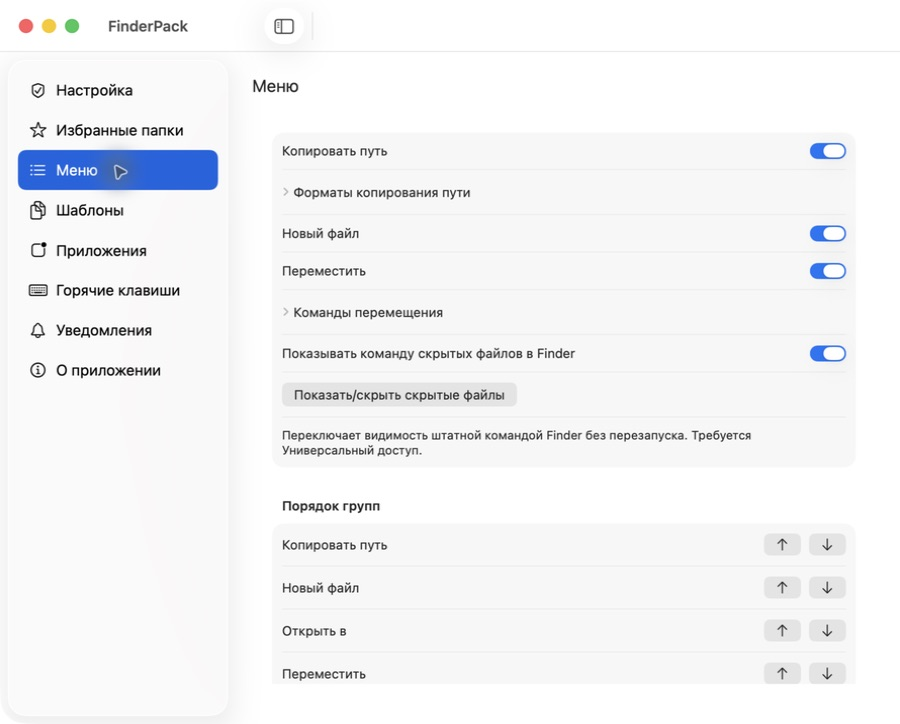
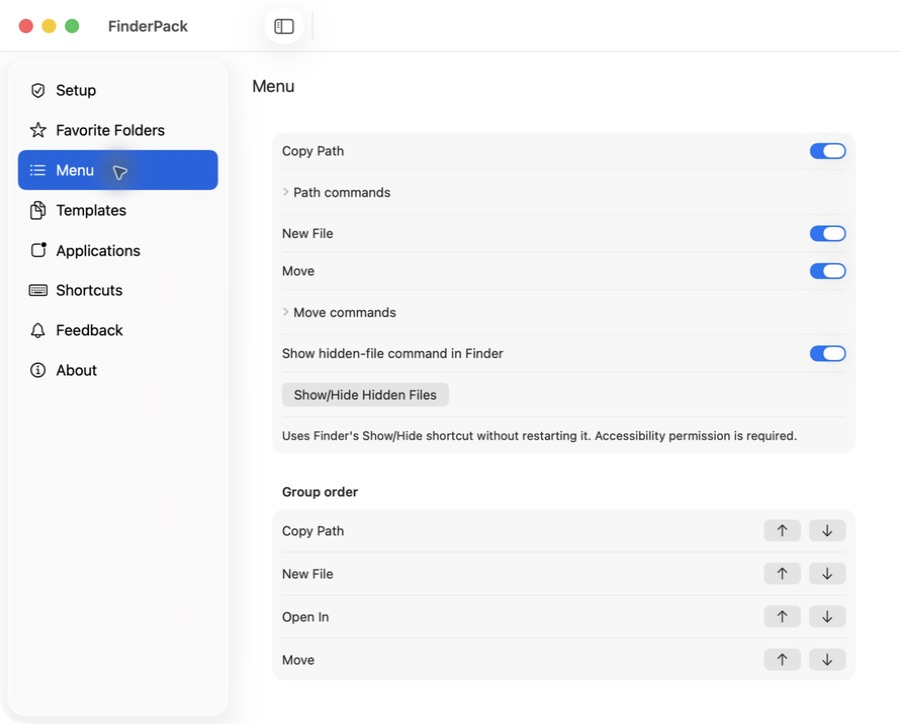
docs: use English interface screenshots

diff --git a/docs/images/README.md b/docs/images/README.md
@@ -1,7 +1,7 @@
 # README screenshots
 
 Captured from the installed FinderPack 0.1.1 development build 14 on 2026-09-19,
-using the Russian interface on macOS 26.6.2. These are actual application-window
+using the English interface on macOS 26.6.2. These are actual application-window
 captures, without compositing, retouching or generated UI.
 
 - `menu-settings.png`: command group visibility and ordering.
@@ -9,5 +9,6 @@ captures, without compositing, retouching or generated UI.
 - `setup.png`: extension, helper and optional permission status.
 
 The main README labels features that are newer than public v0.1.1 build 13.
-When replacing these images, use sample content and check that no personal paths,
-file history, credentials or unrelated applications are visible.
+Keep all README screenshots in English. When replacing these images, use sample content
+and check that no personal paths, file history, credentials or unrelated applications
+are visible.

diff --git a/docs/verification.md b/docs/verification.md
@@ -487,3 +487,10 @@ The local anonymous-download checks are in `build/public-release-check`.
 - Checked the public release tag and asset names through GitHub. Moved detailed template,
   recovery and integration notes to usage.md and build/CI instructions to development.md.
 - Source/document link checks and all 101 core checks passed. No application code changed.
+
+## English README screenshots, 2026-09-19
+
+- Recaptured Menu, Templates and Setup in the installed app with a temporary per-app
+  English language override. All three images were visually checked before replacement.
+- Updated captions and screenshot guidance to require English for the README. Removed
+  the temporary override after capture; the system language was never changed.

diff --git a/README.md b/README.md
@@ -17,7 +17,7 @@ as usual; open the FinderPack app when you want to change its settings.
 
 ![FinderPack settings showing path copying, file creation, moving and hidden-file commands](docs/images/menu-settings.png)
 
-*Real screenshots from development build 14, using the Russian interface. The public
+*Real screenshots from development build 14, using the English interface. The public
 release is currently v0.1.1 (build 13). Individual command hiding, Favorite Folders and
 Setup status are implemented on `main` and will arrive in a later release.*
 
